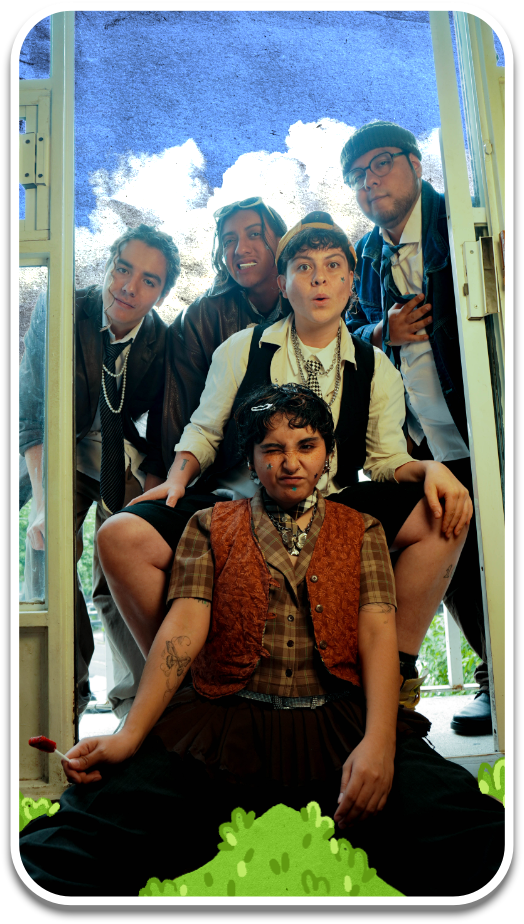
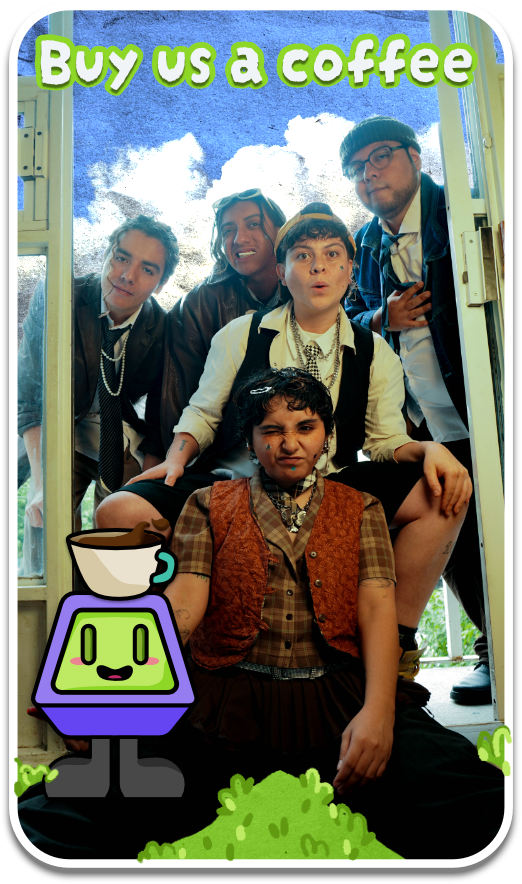
renombrando fotos

diff --git a/index.html b/index.html
@@ -37,7 +37,7 @@
     <!-- NAV -->
     <header class="nav" id="nav">
       <a href="#hero" class="nav__logo"
-        ><img src="recursos//logos/iso.png" width="50" alt="iso" /><span
+        ><img src="recursos//logos/iso.png" width="50" alt="Isotipo ProgramensoStudios Logo" /><span
           >•</span
         ></a
       >
@@ -68,7 +68,7 @@
     >
       <div class="hero__logo reveal" aria-hidden="true">
         <span class="hero__logo-glow"></span>
-        <img src="recursos/logos/logo.png" alt="" loading="lazy" />
+        <img src="recursos/logos/logo.png" alt="ProgramensoStudios Logo" loading="lazy" />
       </div>
     </section>
 
@@ -192,15 +192,17 @@
       id="marcas"
       style="background-image: url(&quot;recursos/secciones/TITULO1.png&quot;)"
     >
-      <div class="banner-marcas__content block black">
+      <div class="banner-marcas__content">
+        <br>
+        <br>
+        <br>
+        <br>
         <p class="eyebrow">— TRABAJO CON MARCAS</p>
+        
         <h2 class="h2">
           Proyectos <span class="accent-lime">para marcas.</span>
         </h2>
-        <p class="section-head__sub">
-          Producción, dirección y edición para clientes que confiaron en
-          nosotros.
-        </p>
+        
       </div>
     </div>
     <!-- ============ AQUI IMAGEN ENFRENTE ============ -->
@@ -274,7 +276,7 @@
                   jugabilidad de Battle Royale para un torneo
                 </p>
                 <img
-                  alt="Little Ceasars"
+                  alt="Little Ceasars Logo"
                   class="showcase__logo"
                   loading="lazy"
                   src="recursos/logos/LITTLE CAESARS V naranja.png"
@@ -291,7 +293,7 @@
                   Liverpool.
                 </p>
                 <img
-                  alt="Espacio para logo del cliente"
+                  alt="Bolo Fest Logo"
                   class="showcase__logo"
                   loading="lazy"
                   src="recursos/logos/image (5).png"
@@ -313,10 +315,10 @@
                   jugado por Alana Flores y otras 4 streamers.
                 </p>
                 <img
-                  alt="Bonafont"
+                  alt="Bonafont Logo"
                   class="showcase__logo"
                   loading="lazy"
-                  src="recursos/logos/Bonafont.png"
+                  src="recursos/logos/bonafont.png"
                 />
               </div>
             </article>
@@ -335,10 +337,10 @@
                   twitch donde participaron mas de 50 streamers invitados.
                 </p>
                 <img
-                  alt="Bonafont"
+                  alt="Cherry Dojo Quest Logo ProgramensoStudios"
                   class="showcase__logo"
                   loading="lazy"
-                  src="recursos/logos/logocherry.png"
+                  src="recursos/logos/LogoCherry.png"
                 />
               </div>
             </article>
@@ -359,14 +361,16 @@
     <!-- BANNER DE TÍTULO (Fuera de la sección para ocupar el 100% de la pantalla) -->
     <div
       class="banner-marcas"
-      style="background-image: url(&quot;recursos/secciones/titulo2.png&quot;)"
+      style="background-image: url(&quot;recursos/secciones/TITULO2.png&quot;)"
     >
-      <div class="banner-marcas__content block black">
+      <div class="banner-marcas__content">
+        <br>
+        <br>
+        <br>
+        <br>
         <p class="eyebrow">— TRABAJO PROPIO</p>
         <h2 class="h2">Proyectos <span class="accent-lime">Propios.</span></h2>
-        <p class="section-head__sub">
-          Producción, dirección y contenido original creado por nuestro equipo.
-        </p>
+        
       </div>
     </div>
 
@@ -540,7 +544,7 @@
       class="team"
       id="equipo"
       data-bg
-      style="--bg-image: url(&quot;recursos/secciones/equipo.png&quot;)"
+      style="--bg-image: url(&quot;recursos/secciones/EQUIPO.png&quot;)"
     >
       <div class="section-head reveal block black">
         <p class="eyebrow">— LAS CARAS DETRÁS DE LOS JUEGOS</p>
@@ -1082,29 +1086,6 @@
       </div>
     </section>
 
-    <!-- ============ PRÓXIMAMENTE ============ 
-<section class="soon" id="proximamente" data-bg style="--bg-image:url('recursos/fondos/proximamente.jpg'); --bg-opacity:0.45">
-  <div class="soon__glow" aria-hidden="true"></div>
-  <p class="eyebrow eyebrow--light reveal">— ALGO ESTÁ POR LLEGAR</p>
-  <h2 class="soon__title reveal">Próximamente</h2>
-  <p class="soon__sub reveal">13 de septiembre</p>
-
-  <div class="soon__ring" aria-hidden="true"></div>
-</section>-->
-
-    <!-- ============ PHRASE (frase + tina de pelotas interactiva) ============ 
-<section class="phrase" id="phrase">
-  <p class="eyebrow reveal">— NUESTRA FILOSOFÍA</p>
-  <h2 class="phrase__title reveal">
-    “Cada partida es una historia<br>
-    <span class="accent-lime">que tú decides jugar.</span>”
-  </h2>
-
-  <div class="phrase__pit" id="phrasePit">
-    <canvas id="ballPitCanvas" aria-hidden="true"></canvas>
-    <p class="phrase__pit-hint">Mueve el mouse por aquí ↝</p>
-  </div>
-</section>-->
 
     <!-- ============ DRAWER ============ -->
     <section

diff --git a/styles.css b/styles.css
@@ -526,6 +526,14 @@ section {
   background-color: #9ddf49;
 }
 
+.ghost{
+    color: var(--white);
+  border: 1px solid rgba(255, 255, 255, 0.35);
+  background: rgba(0, 0, 0, 0.486);
+  backdrop-filter: blur(6px);
+  -webkit-backdrop-filter: blur(6px);
+}
+
 .hero__block--ghost {
   position: relative;
   z-index: 1;
